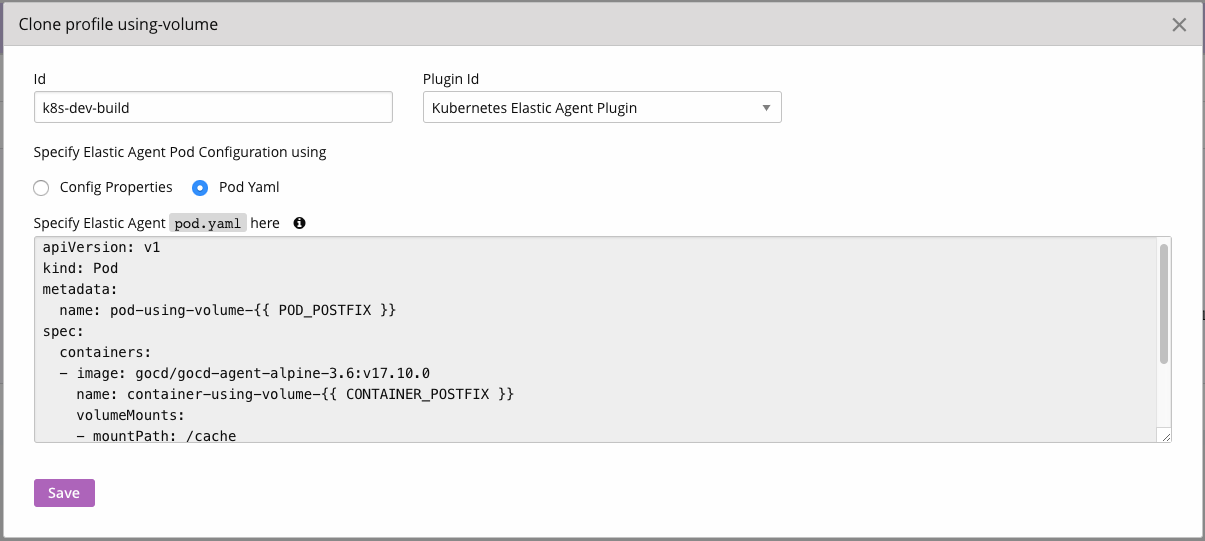
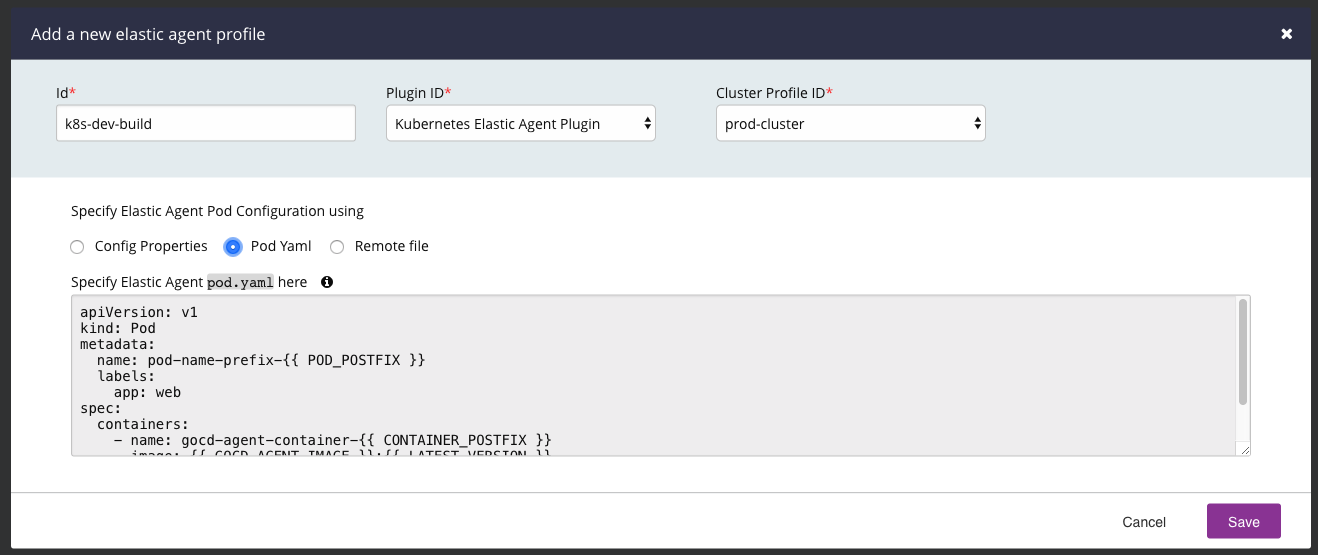
Update installation documentation to include cluster profiles (#107)

diff --git a/install.md b/install.md
@@ -2,7 +2,7 @@
 
 ## Requirements
 
-* GoCD server version v18.2.0 or above
+* GoCD server version v19.3.0 or above
 * Kubernetes Cluster
 
 ## Installation
@@ -13,10 +13,11 @@ on Windows.
 
 ## Configuration
 
-### Configure Plugin Settings
+### Configure Cluster Profile
 
-1. Login to `GoCD server` as admin and navigate to **_Admin_** _>_ **_Plugins_**
-2. Click on **_Settings icon_** of `Kubernetes Elastic Agent Plugin` to update plugin settings configuration.
+1. Login to `GoCD server` as admin and navigate to **_Admin_** _>_ **_Elastic Profile_**
+2. Click on **_Add Cluster Profile_** button and select `Kubernetes Elastic Agent Plugin` from the plugin ID dropdown.
+    1. Specify `Cluster Profile ID` for the new cluster
     1. Optionally specify `Go Server URL`, if GoCD secure site URL is not configured.
     2. Optionally Specify `Agent auto-register Timeout`, Defaults to `10 mintues`.
     3. Optionally Specify `Maximum pending pods`, Defaults to `10 pods`.
@@ -31,17 +32,18 @@ on Windows.
         ```
     7. Optionally, Specify `Cluster ca certificate data`.
     
-    !["Kubernetes Plugin settings"][1]
+    !["Kubernetes Cluster Profile"][1]
 
-## Create an elastic profile
+## Create an Elastic Agent Profile
 
-1. Login to `GoCD server` as admin and navigate to **_Admin_** _>_ **_Elastic Agent Profiles_**
+1. Login to `GoCD server` as admin and navigate to **_Admin_** _>_ **_Elastic Profile_**
     ![Elastic Profiles][2]
 
-2. Click on **_Add_** to create new elastic agent profile
+2. Click on **_New Elastic Agent Profile_** to create new elastic agent profile for a cluster.
     1. Specify `id` for profile.
     2. Select `Kubernetes Elastic Agent Plugin` for **_Plugin id_**
-    3. Configure Kubernetes GoCD elastic agent Pod using:
+    3. Verify Cluster Profile Id of the newly defined Elastic Agent Profile.
+    4. Configure Kubernetes GoCD elastic agent Pod using:
         - Config Properties
             1. Specify GoCD elastic agent docker image name.
             2. Specify Maximum Memory limit. Container memory will be limit to the value specified here.
@@ -60,7 +62,7 @@ on Windows.
 
             ![Create elastic profile using remote file configuration][8]
 
-    4. Save your profile.
+    5. Save your profile.
     
     
 
@@ -97,7 +99,7 @@ $ GO_SERVER_SYSTEM_PROPERTIES="-Dplugin.cd.go.contrib.elasticagent.kubernetes.lo
 ```
 
 
-[1]: images/plugin-settings.png     "Kubernetes Plugin settings"
+[1]: images/cluster-profile.png     "Kubernetes Cluster Profile"
 [2]: images/profiles-page.png  "Elastic profiles"
 [3]: images/profile.png "Create elastic profile using config properties"
 [4]: images/profile-with-pod-yaml.png "Create elastic profile using pod configuration"
